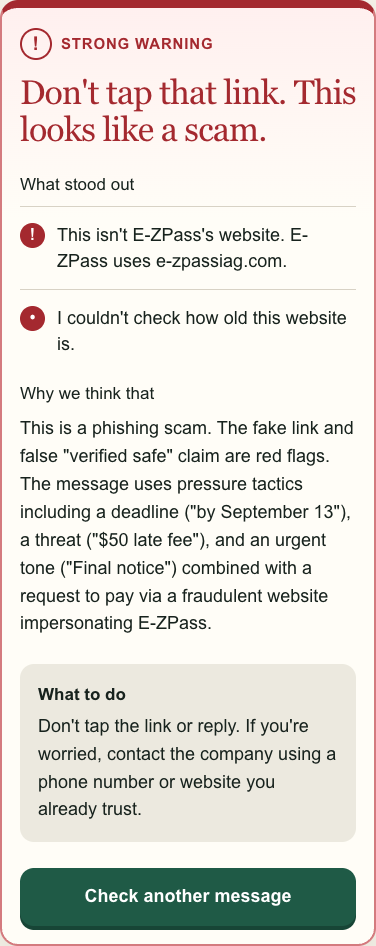
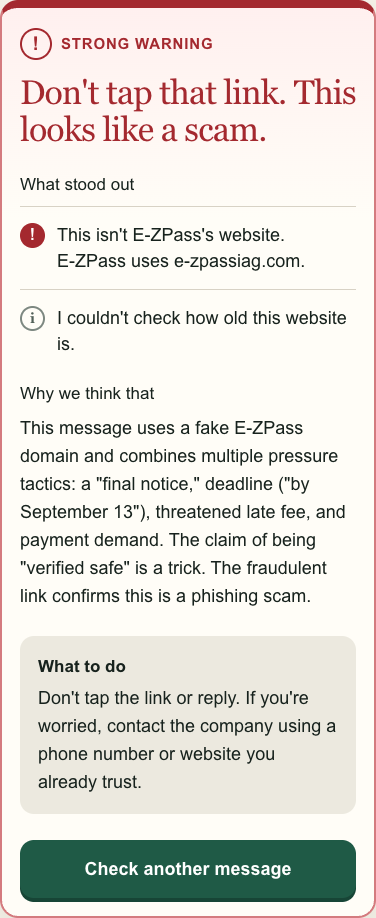
polish result evidence display

diff --git a/src/app/components/result-card.tsx b/src/app/components/result-card.tsx
@@ -35,10 +35,11 @@ function evidenceText(row: EvidenceRow) {
     .trim();
 }
 
-function wrapDottedTokens(text: string) {
+function wrapRiskTokens(text: string) {
   return text.split(/(\s+)/).map((token, index) =>
-    /[\p{L}\p{N}-]\.[\p{L}\p{N}-]/u.test(token) ? (
-      <span className="dotted-token" key={`${token}-${index}`}>
+    /[\p{L}\p{N}-]\.[\p{L}\p{N}-]/u.test(token) ||
+    /[\p{L}\p{N}]['’\p{L}\p{N}]*-[\p{L}\p{N}]/u.test(token) ? (
+      <span className="unbroken-token" key={`${token}-${index}`}>
         {token}
       </span>
     ) : (
@@ -96,11 +97,14 @@ export function ResultCard({ verdict, onReset }: ResultCardProps) {
           <ul className="evidence-list">
             {verdict.rows.map((row, index) => (
               <li key={`${row.signal}-${index}`}>
-                <span className="evidence-marker" aria-hidden="true">
-                  {row.tier === "red" ? "!" : "•"}
+                <span
+                  className={`evidence-marker evidence-marker-${row.tier}`}
+                  aria-hidden="true"
+                >
+                  {row.tier === "red" ? "!" : row.tier === "none" ? "i" : "•"}
                 </span>
                 <span>
-                  {wrapDottedTokens(evidenceText(row))}
+                  {wrapRiskTokens(evidenceText(row))}
                   {isSafeBrowsingRow(row) ? (
                     <>
                       {" "}
@@ -123,7 +127,7 @@ export function ResultCard({ verdict, onReset }: ResultCardProps) {
 
       <div className="explanation">
         <h3>Why we think that</h3>
-        <p>{explanation}</p>
+        <p>{wrapRiskTokens(explanation)}</p>
       </div>
 
       {advice ? (

diff --git a/src/app/components/result-card.test.tsx b/src/app/components/result-card.test.tsx
@@ -30,13 +30,35 @@ describe("ResultCard", () => {
     expect(markup).toContain("Advisory provided by Google");
   });
 
-  it("keeps dotted web-address tokens together", () => {
+  it("keeps web addresses and hyphenated names together", () => {
     const markup = renderToStaticMarkup(
       <ResultCard verdict={verdictFixtures.red} />,
     );
 
     expect(markup).toContain(
-      '<span class="dotted-token">e-zpassny.com.</span>',
+      '<span class="unbroken-token">e-zpassny.com.</span>',
+    );
+    expect(markup).toContain('<span class="unbroken-token">E-ZPass&#x27;s</span>');
+  });
+
+  it("styles informational evidence neutrally", () => {
+    const markup = renderToStaticMarkup(
+      <ResultCard
+        verdict={{
+          ...verdictFixtures.red,
+          rows: [
+            {
+              signal: "domain-age-unknown",
+              tier: "none",
+              text: "I couldn't check how old this website is.",
+            },
+          ],
+        }}
+      />,
+    );
+
+    expect(markup).toContain(
+      'class="evidence-marker evidence-marker-none" aria-hidden="true">i</span>',
     );
   });
 

diff --git a/src/app/globals.css b/src/app/globals.css
@@ -400,12 +400,20 @@ textarea:disabled {
   line-height: 1;
 }
 
-.result-red .evidence-marker {
+.evidence-marker-red {
   background: var(--red);
 }
 
-.result-amber .evidence-marker {
+.evidence-marker-amber {
   background: var(--amber);
+}
+
+.result-card .evidence-marker-none {
+  border: 2px solid #7d8881;
+  color: var(--muted);
+  background: transparent;
+  font-family: Georgia, "Times New Roman", serif;
+  font-size: 14px;
 }
 
 .evidence-list a {
@@ -414,7 +422,7 @@ textarea:disabled {
   text-underline-offset: 3px;
 }
 
-.dotted-token {
+.unbroken-token {
   display: inline-block;
   width: max-content;
   max-width: 100%;
